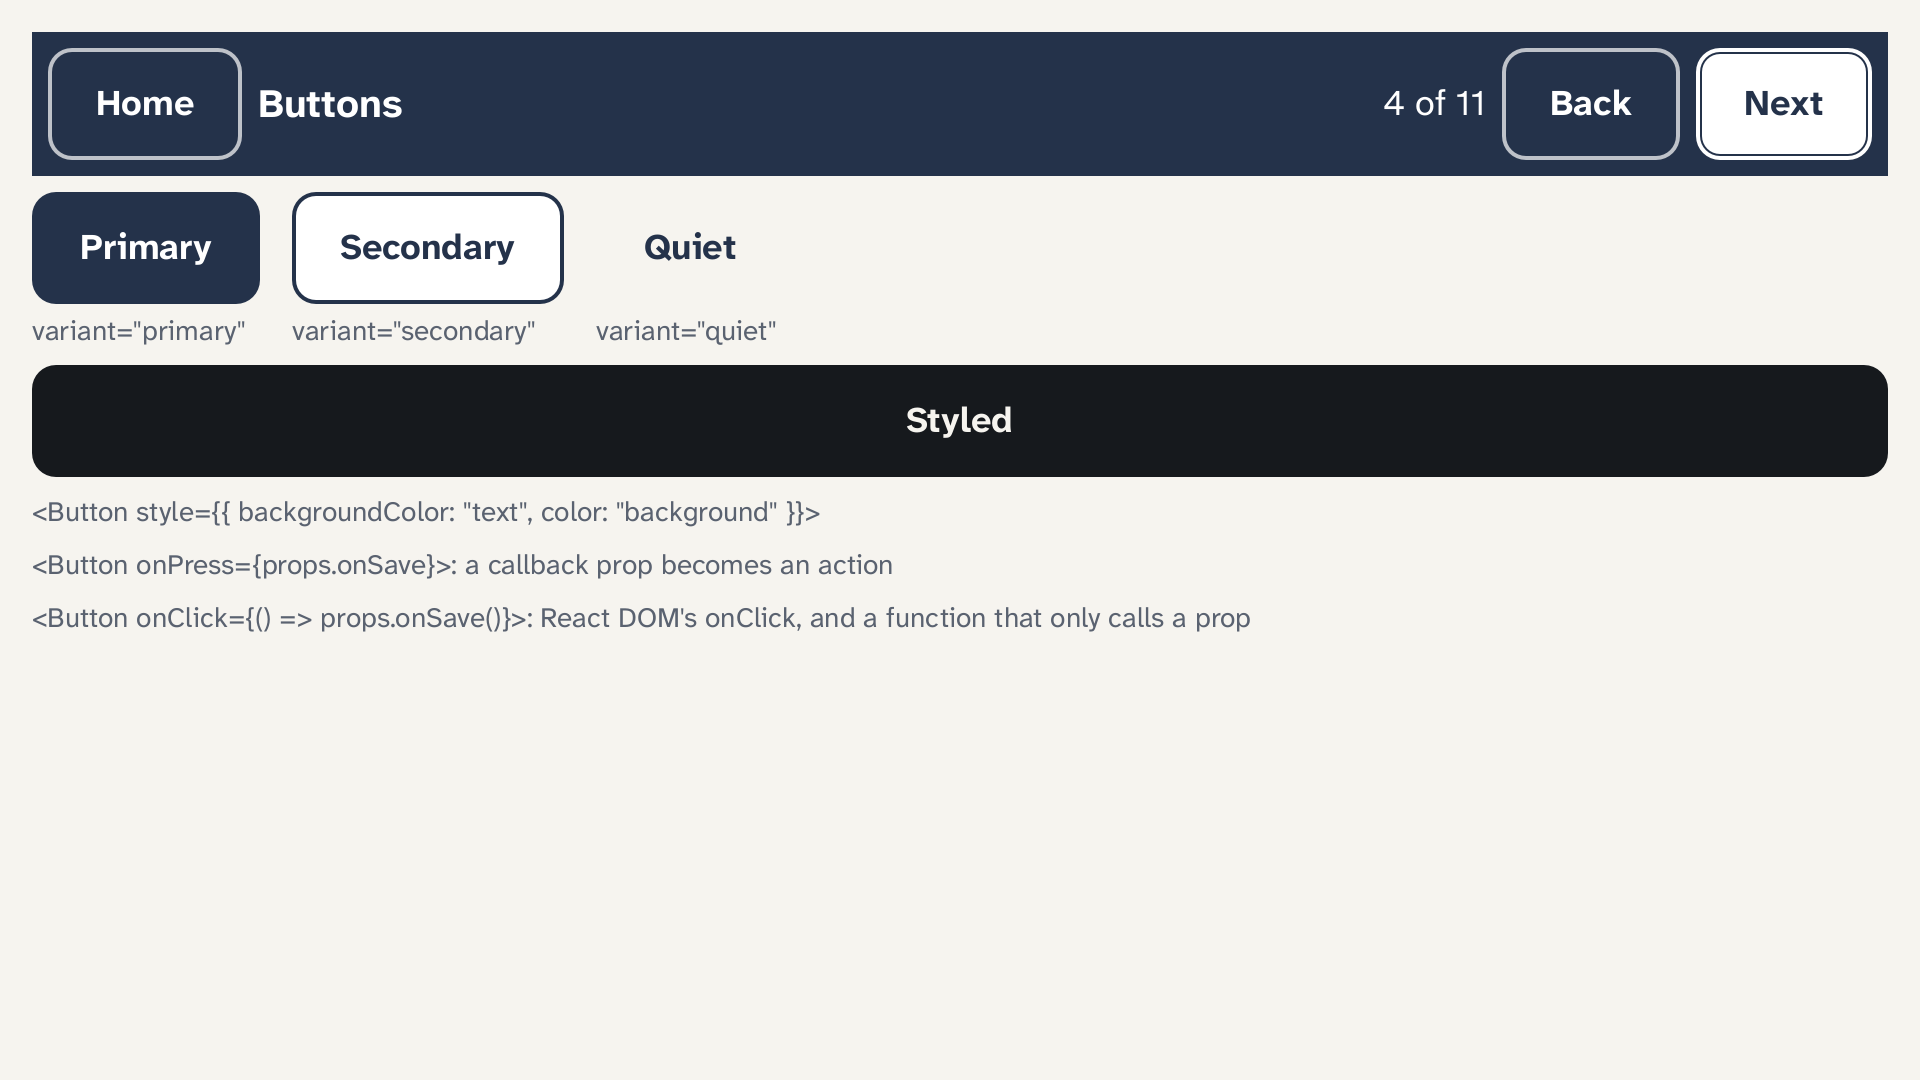
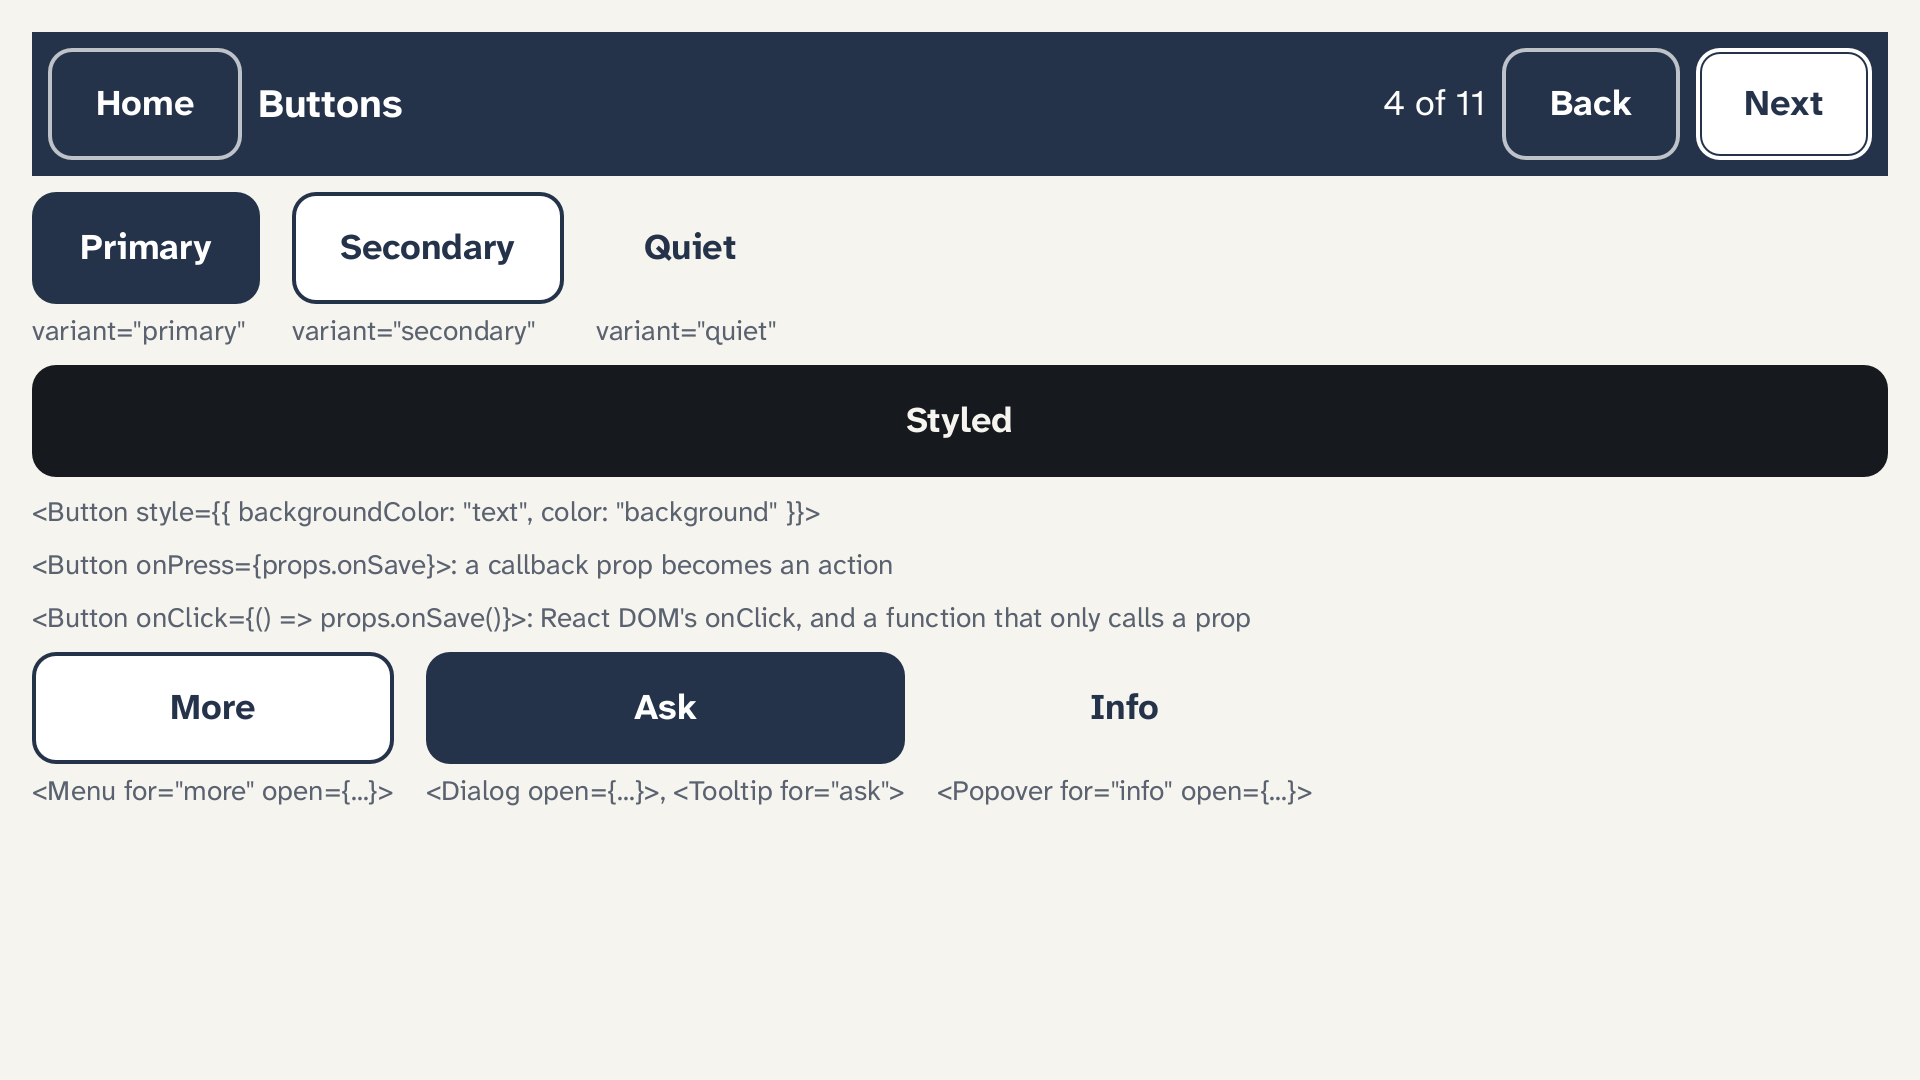
The showcase with layers over the screen
NoWayOS 0aca2ac (layers): the gallery's buttons screen opens a menu, a dialog and a popover, with a tooltip; the app's builder forwards them.

diff --git a/showcase/showcase-app/tsx/gallery-buttons.tsx b/showcase/showcase-app/tsx/gallery-buttons.tsx
@@ -1,9 +1,10 @@
-// The Screen Compiler gallery, 4 of 11: the three variants, and a button's declared style. Each emits an
-// action the application handles; here, none does anything.
+// The Screen Compiler gallery, 4 of 11: the three variants, a button's declared style, and the layers
+// buttons open over the screen - a menu, a dialog and a popover - and a tooltip. Each button emits an
+// action the application handles; here the variants do nothing, and the rest open their layers.
 // Each example is captioned with the TSX that made it. Written for the showcase in TSX and
 // converted at build time like every other screen here; the launcher's Screen Compiler
 // tile opens the first, and Back and Next go round them all.
-import { Button, Column, HeaderBar, Row, Screen, Spacer, Text } from "nowayos:kit";
+import { Button, Column, Dialog, HeaderBar, Menu, Popover, Row, Screen, Spacer, Text, Tooltip } from "nowayos:kit";
 
 const GAP = 8;
 const EDGE = 16;
@@ -14,6 +15,13 @@ type GalleryProps = {
   onBack: () => void;
   onNext: () => void;
   onTry: () => void;
+  onMore: () => void;
+  onAsk: () => void;
+  onInfo: () => void;
+  onDone: () => void;
+  menuOpen: boolean;
+  asking: boolean;
+  infoOpen: boolean;
 };
 
 export function GalleryButtonsScreen(props: GalleryProps) {
@@ -64,6 +72,47 @@ export function GalleryButtonsScreen(props: GalleryProps) {
         <Text role="caption">{'<Button style={{ backgroundColor: "text", color: "background" }}>'}</Text>
         <Text role="caption">{'<Button onPress={props.onSave}>: a callback prop becomes an action'}</Text>
         <Text role="caption">{'<Button onClick={() => props.onSave()}>: React DOM\'s onClick, and a function that only calls a prop'}</Text>
+        <Row gap={EDGE}>
+          <Column gap={4}>
+            <Button id="more" variant="secondary" onPress={props.onMore}>
+              More
+            </Button>
+            <Menu for="more" open={props.menuOpen}>
+              <Column>
+                <Button variant="quiet" onPress={props.onTry}>
+                  Rename
+                </Button>
+                <Button variant="quiet" onPress={props.onTry}>
+                  Archive
+                </Button>
+              </Column>
+            </Menu>
+            <Text role="caption">{'<Menu for="more" open={...}>'}</Text>
+          </Column>
+          <Column gap={4}>
+            <Button id="ask" onPress={props.onAsk}>
+              Ask
+            </Button>
+            <Tooltip for="ask">Opens a dialog over the screen</Tooltip>
+            <Text role="caption">{'<Dialog open={...}>, <Tooltip for="ask">'}</Text>
+          </Column>
+          <Column gap={4}>
+            <Button id="info" variant="quiet" onPress={props.onInfo}>
+              Info
+            </Button>
+            <Popover for="info" open={props.infoOpen}>
+              <Text lines={2}>A popover shows beside its control, on the side with room.</Text>
+            </Popover>
+            <Text role="caption">{'<Popover for="info" open={...}>'}</Text>
+          </Column>
+        </Row>
+        <Dialog open={props.asking}>
+          <Column gap={GAP}>
+            <Text role="heading">A dialog</Text>
+            <Text lines={2}>The screen beneath is veiled and out of reach until it closes.</Text>
+            <Button onPress={props.onDone}>Done</Button>
+          </Column>
+        </Dialog>
       </Column>
     </Screen>
   );

diff --git a/showcase/showcase-app/src/lib.rs b/showcase/showcase-app/src/lib.rs
@@ -82,7 +82,7 @@ use nowayos_ui::builder::{
     ButtonVariant, Input, Layout, Look, Picker, Space, Surface, Template, TextStyle, UiBuilder,
 };
 use nowayos_ui::{
-    ActionId, FieldId, GroupId, InputEvent, Navigator, NodeId, NodeKind, ScreenId, SlotId,
+    ActionId, FieldId, GroupId, InputEvent, LayerId, Navigator, NodeId, NodeKind, ScreenId, SlotId,
     SwitchId, TextMetrics, Tree, UiError,
 };
 use showcase_kiosk_contract::Action;
@@ -94,6 +94,7 @@ use showcase_visitor::VisitorUi;
 
 use brands::Brand;
 use generated::attract::attract_screen as attract;
+use generated::gallery_buttons::gallery_buttons_screen as gallery_buttons;
 use generated::gallery_icons::gallery_icons_screen as gallery_icons;
 use generated::gallery_keyboard::gallery_keyboard_screen as gallery_keyboard;
 use generated::gallery_layout::gallery_layout_screen as gallery;
@@ -259,6 +260,10 @@ const _: () = {
 /// The gallery's first screen in the launcher's tree: each shows as
 /// `ScreenId(GALLERY_FROM + its place in GALLERY)`.
 const GALLERY_FROM: u16 = 16;
+
+/// The gallery's buttons screen, by its place in [`GALLERY`]: its More,
+/// Ask and Info open a menu, a dialog and a popover over it.
+const GALLERY_BUTTONS: usize = 3;
 
 /// The gallery's keyboard screen, by its place in [`GALLERY`]: its
 /// Check sets or clears the code's error line.
@@ -668,6 +673,26 @@ impl UiBuilder for Shifted<'_> {
         let field = FieldId::new(self.shift(field.get()));
         UiBuilder::text_area(&mut *self.tree, field, rows, max_len, placeholder)
     }
+    fn dialog(&mut self, layer: LayerId, child: NodeId) -> Result<NodeId, UiError> {
+        let layer = LayerId::new(self.shift(layer.get()));
+        UiBuilder::dialog(&mut *self.tree, layer, child)
+    }
+    fn menu(&mut self, layer: LayerId, anchor: NodeId, child: NodeId) -> Result<NodeId, UiError> {
+        let layer = LayerId::new(self.shift(layer.get()));
+        UiBuilder::menu(&mut *self.tree, layer, anchor, child)
+    }
+    fn popover(
+        &mut self,
+        layer: LayerId,
+        anchor: NodeId,
+        child: NodeId,
+    ) -> Result<NodeId, UiError> {
+        let layer = LayerId::new(self.shift(layer.get()));
+        UiBuilder::popover(&mut *self.tree, layer, anchor, child)
+    }
+    fn tooltip(&mut self, anchor: NodeId, text: &'static str) -> Result<NodeId, UiError> {
+        UiBuilder::tooltip(&mut *self.tree, anchor, text)
+    }
     fn checkbox(&mut self, field: FieldId, label: &'static str) -> Result<NodeId, UiError> {
         let field = FieldId::new(self.shift(field.get()));
         UiBuilder::checkbox(&mut *self.tree, field, label)
@@ -1058,6 +1083,30 @@ impl<E: Extra> Showcase<E> {
         }
     }
 
+    /// The buttons screen's More, Ask and Info open their menu, dialog and
+    /// popover; the dialog's Done, or Escape in it, closes it.
+    fn gallery_layers(
+        &mut self,
+        action: Option<nowayos_ui::ActionId>,
+        dismissed: Option<nowayos_ui::LayerId>,
+    ) -> Option<&'static str> {
+        use gallery_buttons::{actions, layers};
+        let (opened, said) = match (action, dismissed) {
+            (Some(actions::MORE), _) => (Some(layers::MENU_OPEN), "More"),
+            (Some(actions::ASK), _) => (Some(layers::ASKING), "Ask"),
+            (Some(actions::INFO), _) => (Some(layers::INFO_OPEN), "Info"),
+            (Some(actions::DONE), _) | (None, Some(layers::ASKING)) => {
+                let _ = self.launcher.close(layers::ASKING);
+                return Some("Done");
+            }
+            _ => return None,
+        };
+        if let Some(layer) = opened {
+            let _ = self.launcher.open(layer);
+        }
+        Some(said)
+    }
+
     /// The keyboard screen's Check: the code's error line cleared if it is
     /// four digits, and set otherwise - as an application would.
     fn check_code(&mut self) {
@@ -1354,6 +1403,18 @@ impl<E: Extra> KioskScreens for Showcase<E> {
                 nowayos_ui::UiEvent::Action(gallery::actions::NEXT) => {
                     self.turn_gallery(true);
                     Some("Next")
+                }
+                // The buttons screen's layers, opened and closed as an
+                // application would.
+                nowayos_ui::UiEvent::Action(action)
+                    if gallery_place(self.nav.current()) == Some(GALLERY_BUTTONS) =>
+                {
+                    self.gallery_layers(Some(action), None)
+                }
+                nowayos_ui::UiEvent::Dismissed(layer)
+                    if gallery_place(self.nav.current()) == Some(GALLERY_BUTTONS) =>
+                {
+                    self.gallery_layers(None, Some(layer))
                 }
                 nowayos_ui::UiEvent::Action(gallery_keyboard::actions::CHECK)
                     if gallery_place(self.nav.current()) == Some(GALLERY_KEYBOARD) =>

diff --git a/kiosk/showcase-kiosk-screens/src/kiosk.rs b/kiosk/showcase-kiosk-screens/src/kiosk.rs
@@ -940,7 +940,7 @@ impl<S: Screens> FormUi<S> {
                 None
             }
             // A kiosk's screens hold no virtual list.
-            UiEvent::ListMoved(_) => None,
+            UiEvent::ListMoved(_) | UiEvent::Closed(_) | UiEvent::Dismissed(_) => None,
             UiEvent::Action(action) => {
                 let Some((request, label)) = S::button(screen, action) else {
                     return Some(Pressed::Other(action));
